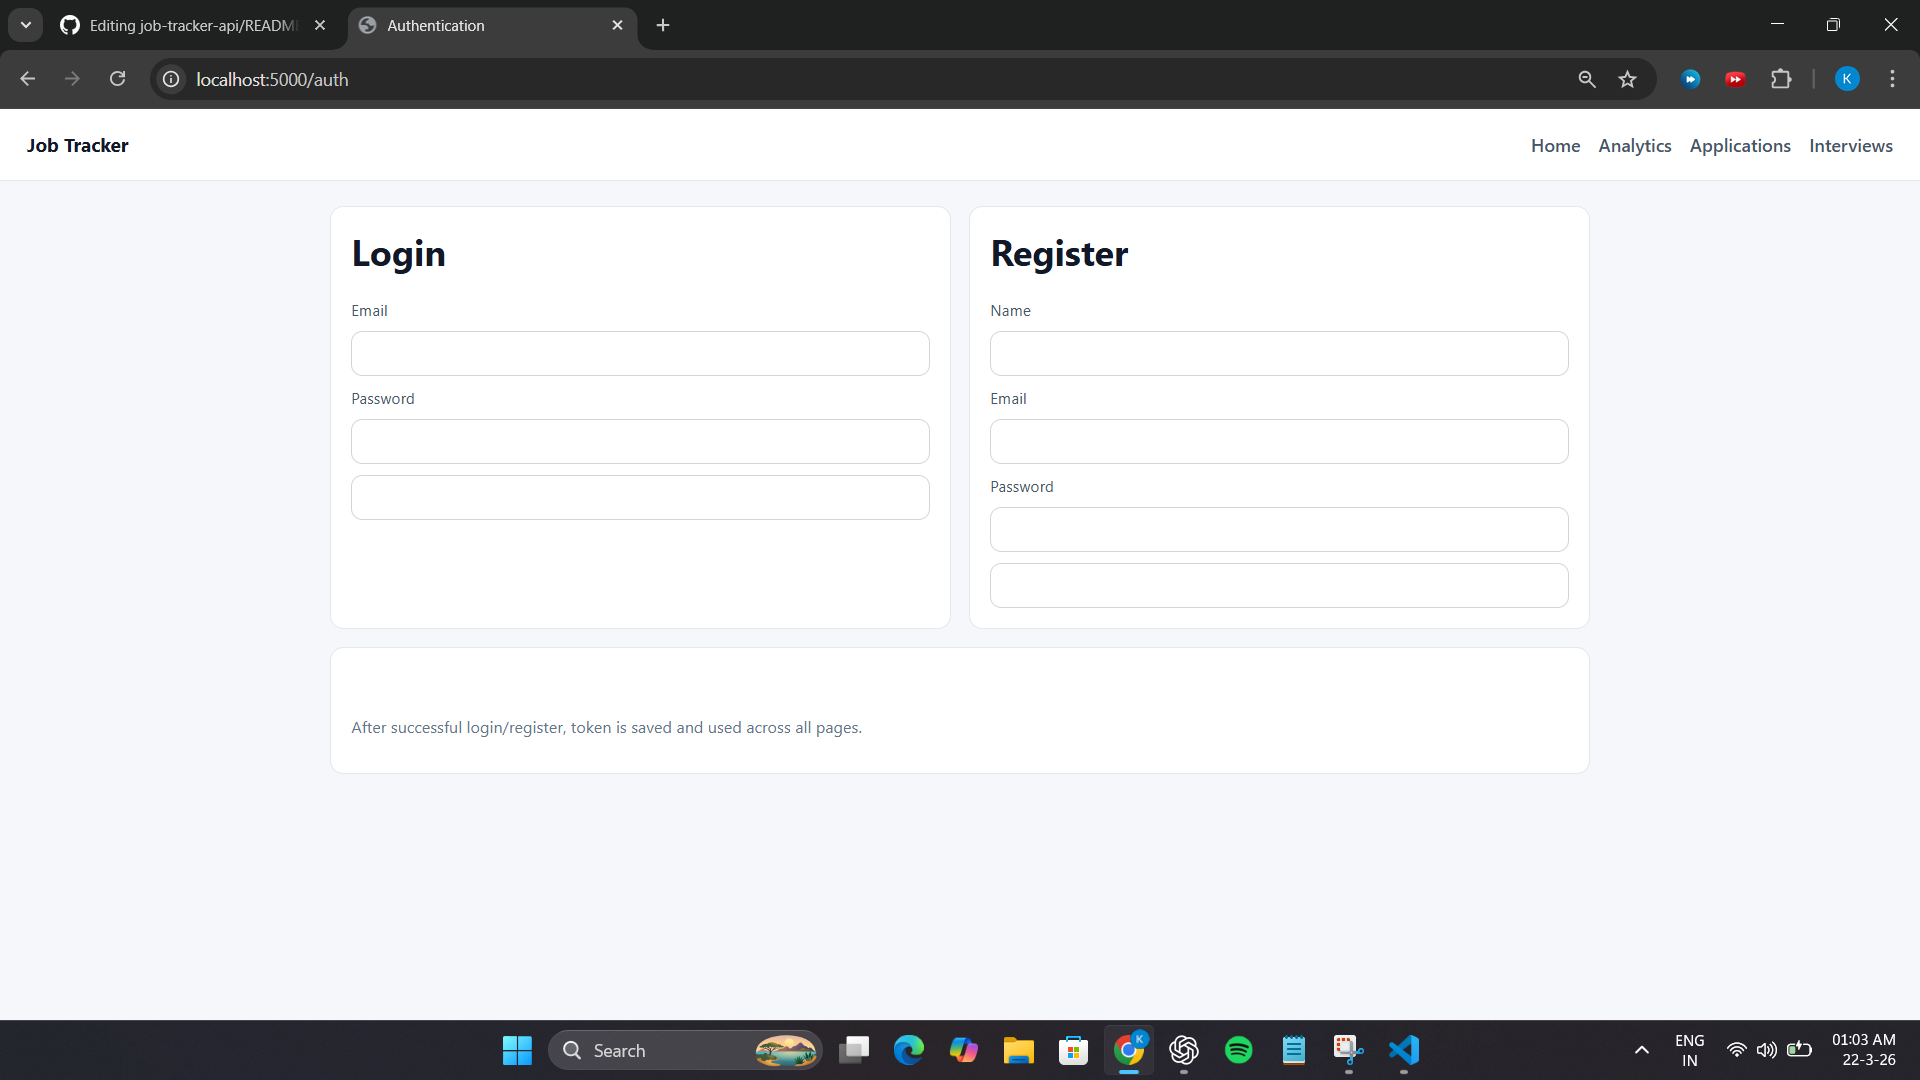
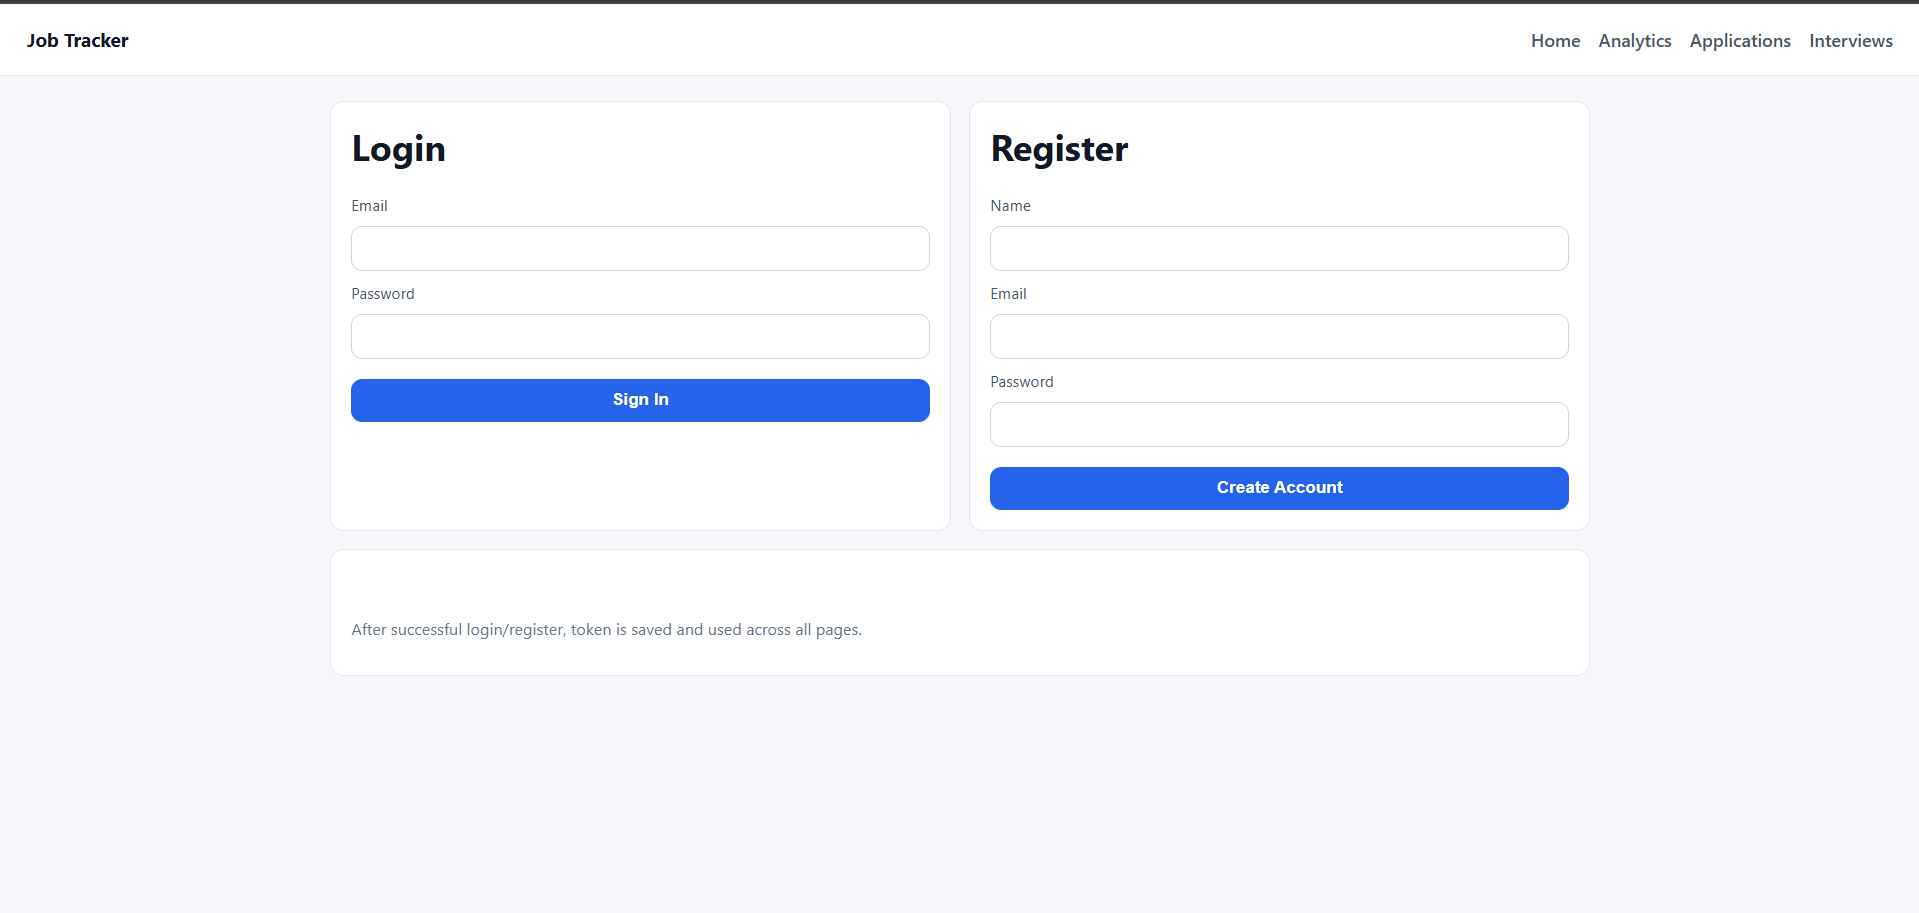
Fix critical bugs: auth redirect, button styling, mongoose pre-save hook, ObjectId validation

diff --git a/src/controllers/applicationController.js b/src/controllers/applicationController.js
@@ -1,6 +1,7 @@
 const Application = require("../models/Application");
 const cloudinary = require("../config/cloudinary");
 const AppError = require("../utils/appError");
+const mongoose = require("mongoose");
 
 const createApplication = async (req, res, next) => {
   try {
@@ -58,6 +59,10 @@ const getApplications = async (req, res, next) => {
 const getApplicationById = async (req, res, next) => {
   try {
 
+    if (!mongoose.Types.ObjectId.isValid(req.params.id)) {
+      throw new AppError("Invalid application ID format", 400);
+    }
+
     const application = await Application.findOne({
       _id: req.params.id,
       userId: req.user.userId
@@ -76,6 +81,10 @@ const getApplicationById = async (req, res, next) => {
 
 const updateApplication = async (req, res, next) => {
   try {
+
+    if (!mongoose.Types.ObjectId.isValid(req.params.id)) {
+      throw new AppError("Invalid application ID format", 400);
+    }
 
     const application = await Application.findOneAndUpdate(
       {
@@ -100,6 +109,10 @@ const updateApplication = async (req, res, next) => {
 const deleteApplication = async (req, res, next) => {
   try {
 
+    if (!mongoose.Types.ObjectId.isValid(req.params.id)) {
+      throw new AppError("Invalid application ID format", 400);
+    }
+
     const application = await Application.findOneAndDelete({
       _id: req.params.id,
       userId: req.user.userId
@@ -120,6 +133,10 @@ const uploadResume = async (req, res, next) => {
   try {
 
     const { id } = req.params;
+
+    if (!mongoose.Types.ObjectId.isValid(id)) {
+      throw new AppError("Invalid application ID format", 400);
+    }
 
     const application = await Application.findOne({
       _id: id,

diff --git a/src/routes/applicationRoutes.js b/src/routes/applicationRoutes.js
@@ -12,11 +12,15 @@ const {
 
 const router = express.Router();
 
-router.post("/", protect, createApplication);
-router.get("/", protect, getApplications);
-router.get("/:id", protect, getApplicationById);
-router.patch("/:id", protect, updateApplication);
-router.delete("/:id", protect, deleteApplication);
-router.post("/:id/upload-resume", protect, upload.single("resume"), uploadResume);
+const asyncHandler = (fn) => (req, res, next) => {
+  Promise.resolve(fn(req, res, next)).catch(next);
+};
+
+router.post("/", protect, asyncHandler(createApplication));
+router.get("/", protect, asyncHandler(getApplications));
+router.get("/:id", protect, asyncHandler(getApplicationById));
+router.patch("/:id", protect, asyncHandler(updateApplication));
+router.delete("/:id", protect, asyncHandler(deleteApplication));
+router.post("/:id/upload-resume", protect, upload.single("resume"), asyncHandler(uploadResume));
 
 module.exports = router;

diff --git a/src/controllers/interviewController.js b/src/controllers/interviewController.js
@@ -1,11 +1,16 @@
 const InterviewStage = require("../models/InterviewStage");
 const Application = require("../models/Application");
 const AppError = require("../utils/appError");
+const mongoose = require("mongoose");
 
 const addInterviewStage = async (req, res, next) => {
   try {
 
     const { id } = req.params;
+
+    if (!mongoose.Types.ObjectId.isValid(id)) {
+      throw new AppError("Invalid application ID format", 400);
+    }
 
     const application = await Application.findOne({
       _id: id,
@@ -32,6 +37,10 @@ const getInterviewStages = async (req, res, next) => {
   try {
 
     const { id } = req.params;
+
+    if (!mongoose.Types.ObjectId.isValid(id)) {
+      throw new AppError("Invalid application ID format", 400);
+    }
 
     const application = await Application.findOne({
       _id: id,

diff --git a/src/routes/interviewRoutes.js b/src/routes/interviewRoutes.js
@@ -11,10 +11,14 @@ const {
 
 const router = express.Router();
 
-router.post("/applications/:id/interviews", protect, addInterviewStage);
-router.get("/applications/:id/interviews", protect, getInterviewStages);
+const asyncHandler = (fn) => (req, res, next) => {
+  Promise.resolve(fn(req, res, next)).catch(next);
+};
 
-router.patch("/interviews/:id", protect, updateInterviewStage);
-router.delete("/interviews/:id", protect, deleteInterviewStage);
+router.post("/applications/:id/interviews", protect, asyncHandler(addInterviewStage));
+router.get("/applications/:id/interviews", protect, asyncHandler(getInterviewStages));
+
+router.patch("/interviews/:id", protect, asyncHandler(updateInterviewStage));
+router.delete("/interviews/:id", protect, asyncHandler(deleteInterviewStage));
 
 module.exports = router;

diff --git a/src/public/styles.css b/src/public/styles.css
@@ -85,9 +85,7 @@ body {
 .form input,
 .form textarea,
 .form select,
-.form button,
-textarea,
-button {
+textarea {
   width: 100%;
   padding: 10px 12px;
   border: 1px solid #d1d5db;
@@ -96,13 +94,22 @@ button {
   background: #fff;
 }
 
-button {
-  width: auto;
-  background: #2563eb;
+button,
+.form button {
+  padding: 10px 12px;
   border: none;
+  border-radius: 10px;
+  font-size: 0.95rem;
+  background: #2563eb;
   color: #fff;
   cursor: pointer;
   font-weight: 600;
+  width: auto;
+}
+
+.form button {
+  width: 100%;
+  margin-top: 8px;
 }
 
 .actions-row {

diff --git a/src/public/js/authPage.js b/src/public/js/authPage.js
@@ -15,8 +15,13 @@ const handleAuth = async (form, endpoint, successText) => {
       setToken(data.token);
     }
 
-    setMessage(message, `${successText} Token saved.`, "success");
+    setMessage(message, `${successText} Token saved. Redirecting to dashboard...`, "success");
     form.reset();
+    
+    // Redirect to dashboard after 1 second
+    setTimeout(() => {
+      window.location.href = "/dashboard";
+    }, 1000);
   } catch (error) {
     setMessage(message, error.message, "error");
   }

diff --git a/src/controllers/analyticsController.js b/src/controllers/analyticsController.js
@@ -1,4 +1,5 @@
 const Application = require("../models/Application");
+const mongoose = require("mongoose");
 
 const getAnalytics = async (req, res, next) => {
   try {
@@ -7,7 +8,7 @@ const getAnalytics = async (req, res, next) => {
 
     const stats = await Application.aggregate([
       {
-        $match: { userId: new require("mongoose").Types.ObjectId(userId) }
+        $match: { userId: new mongoose.Types.ObjectId(userId) }
       },
       {
         $group: {

diff --git a/src/routes/authRoutes.js b/src/routes/authRoutes.js
@@ -3,7 +3,11 @@ const {registerUser,loginUser} = require("../controllers/authController");
 
 const router = express.Router();
 
-router.post("/register", registerUser);
-router.post("/login", loginUser);
+const asyncHandler = (fn) => (req, res, next) => {
+  Promise.resolve(fn(req, res, next)).catch(next);
+};
+
+router.post("/register", asyncHandler(registerUser));
+router.post("/login", asyncHandler(loginUser));
 
 module.exports = router;

diff --git a/src/models/User.js b/src/models/User.js
@@ -33,17 +33,15 @@ const userSchema = new mongoose.Schema(
   }
 );
 
-userSchema.pre("save", async function (next) {
+userSchema.pre("save", async function () {
 
   if (!this.isModified("password")) {
-    return next();
+    return;
   }
 
   const salt = await bcrypt.genSalt(10);
 
   this.password = await bcrypt.hash(this.password, salt);
-
-  next();
 });
 
 userSchema.methods.comparePassword = async function (enteredPassword) {

diff --git a/src/routes/analyticsRoutes.js b/src/routes/analyticsRoutes.js
@@ -5,6 +5,10 @@ const { getAnalytics } = require("../controllers/analyticsController");
 
 const router = express.Router();
 
-router.get("/analytics", protect, getAnalytics);
+const asyncHandler = (fn) => (req, res, next) => {
+  Promise.resolve(fn(req, res, next)).catch(next);
+};
+
+router.get("/analytics", protect, asyncHandler(getAnalytics));
 
 module.exports = router;

diff --git a/README.md b/README.md
@@ -87,7 +87,7 @@ GET /api/applications
 ```
 ## 📸 Preview
 ![alt text](preview/analytics.png)
-![alt text](preview/application.png)
+![alt text](preview/aplication.png)
 ![alt text](preview/dashboard.png)
 ![alt text](preview/auth.png)
 ![alt text](preview/interviewstage.png)
